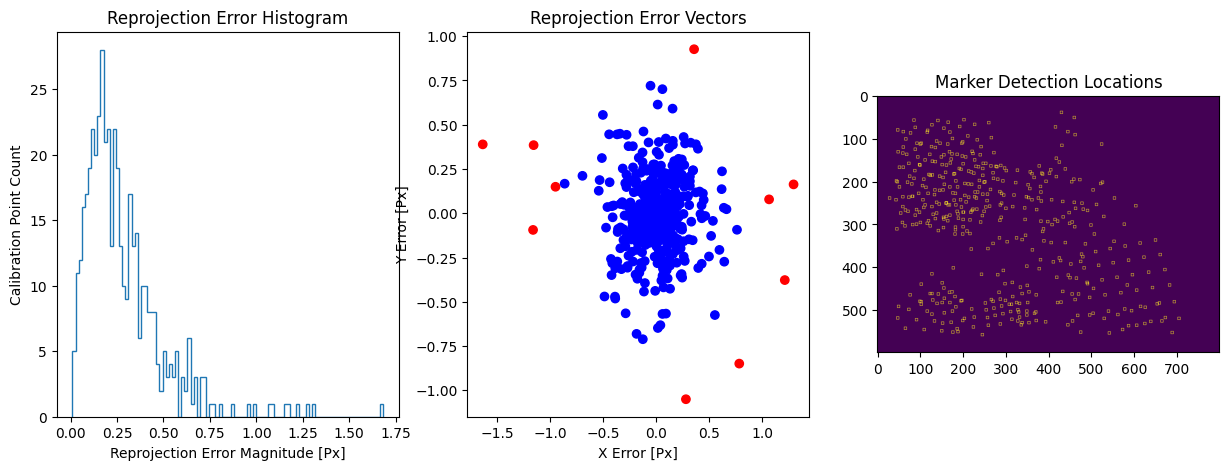
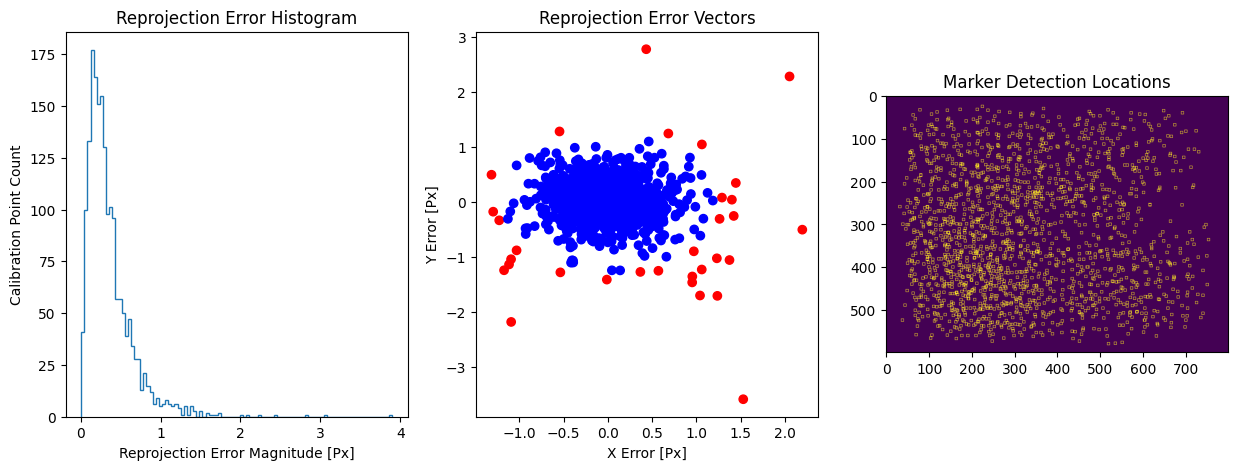
Update with new calibration results

diff --git a/sections/methods/software.tex b/sections/methods/software.tex
@@ -254,7 +254,7 @@ the smallest Z-coordinate). This closes line is the final output of the detectio
 \subsection{Stereo Camera Calibration}
 
 A camera calibration script was creates using the functions available in OpenCV \cite{bradski_opencv_2000}. The script can be read in appendix \ref{app:cal-code}.
-285 total calibration image pairs were captured. The calibration pattern used was an 8 marker by 11 marker ChArUco board with 20mm checkers and 15mm markers, and a 4x4 AruCo dictionary.
+232 total calibration image pairs were captured. The calibration pattern used was an 8 marker by 11 marker ChArUco board with 20mm checkers and 15mm markers, and a 4x4 AruCo dictionary.
 
 To perform individual camera intrinsic and distortion parameter calibrations, each image was loaded then the pattern corners were detected and matched to the expected board layout.
 Any image in which fewer than 10 corner points were detected was discarded, as low point counts can result in bad calibration parameters. For accepted images, the identified calibration
@@ -276,8 +276,8 @@ that were valid in both images were retained (ChArUco patterns use QR-like codes
 So if calibration point A was detected in the left image but not in the right image, or if it was detected in both but then was removed from the left point set due to too high 
 reprojection error, then it was not used in either. Image pairs that had less than 10 valid points in either left or right image were rejected from both sets. 
 
-After following this process for each individual camera, and then for the stereo combination, 26 images were retained as valid for the left camera, 17 for the right camera, and 
-10 images retained for the stereo combination. A visual inspection of the reprojection errors and detected corner locations was performed to confirm that:
+After following this process for each individual camera, and then for the stereo combination, 62 images were retained as valid for the left camera, 62 for the right camera, and 
+35 images retained for the stereo combination. A visual inspection of the reprojection errors and detected corner locations was performed to confirm that:
 
 \begin{itemize}
     \item The errors were approximately zero-mean.

diff --git a/sections/results/software.tex b/sections/results/software.tex
@@ -1,27 +1,3 @@
-Table \ref{tab:sample-count} shows the number samples collected for each background and distance combination. Each test
-was performed for the same 2-minute period, however the image processing was not implemented to be real-time and the 
-update rate varies somewhat. As a result, the number of samples collected in each 2-minute period varies.
-
-\begin{table}[H]
-    \centering
-    \caption{Number of sample images collected for each test. Variation between tests is due to non-real-time
-        performance of the image processing program, which resulted in variation in the update rate.}
-    \label{tab:sample-count}
-    \begin{tabular}{|c|c||c|}
-        \hline
-        Case Number & Distance to Object [mm] & Number of Samples \\
-        \hline
-        1 & 500 & 9  \\
-        1 & 1000 & 10  \\
-        1 & 2000 & 11  \\
-        2 & 500 & 11 \\
-        2 & 1000 & 11 \\
-        2 & 2000 & 12 \\
-        \hline
-    \end{tabular}
-\end{table}
-
-
 \subsection{Perch Detection Success Rate}
 
 For each test trial in table \ref{tab:vision-test-cases}, table \ref{tab:success-rates} shows
